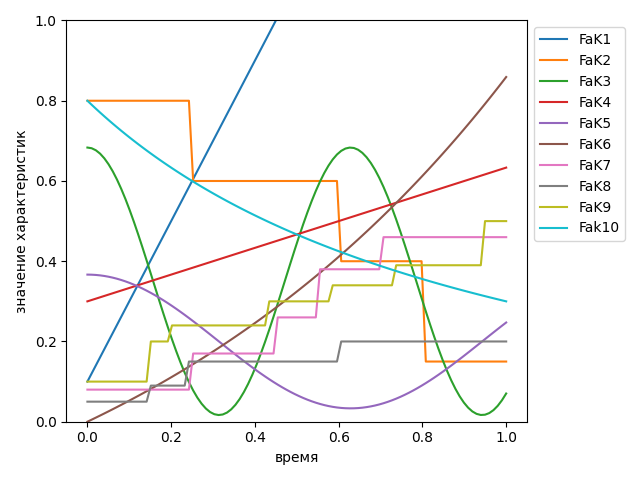
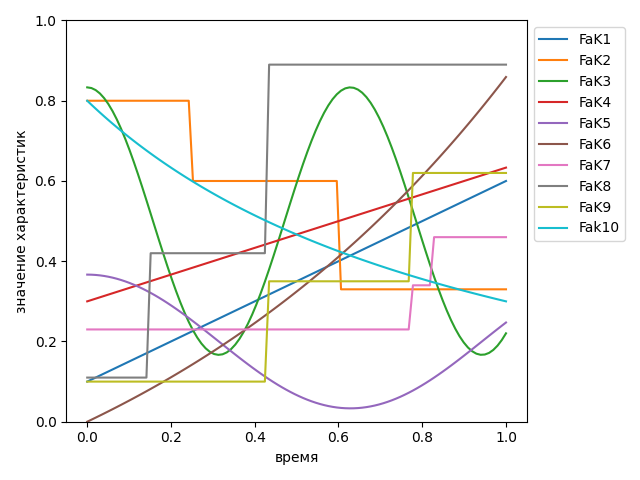
Fuck

diff --git a/service.py b/service.py
@@ -19,6 +19,7 @@ labelMap = {'U1': 'Общее количество ДТП',
             'U14': 'ДТП на платных автомобильных дорогах',
             'U15': 'ДТП на железнодорожных переездах'}
 
+
 class CharacteristicFromExcel:
     def __init__(self, *args, **kwargs):
         if len(kwargs) == 0 or kwargs["excel"] is None:
@@ -46,7 +47,8 @@ class CharacteristicFromExcel:
                                                   char_val[self.char_faks_index:]))
 
         self.func_m = {}
-        self.fak_f = {'FaK1': fak1, 'FaK2': fak2, 'FaK3': fak3, 'FaK4': fak4, 'FaK5': fak5, 'FaK6': fak6, 'FaK7': fak7, 'FaK8': fak8, 'FaK9': fak9, 'FaK10': fak10}
+        self.fak_f = {'FaK1': fak1, 'FaK2': fak2, 'FaK3': fak3, 'FaK4': fak4, 'FaK5': fak5, 'FaK6': fak6, 'FaK7': fak7,
+                      'FaK8': fak8, 'FaK9': fak9, 'FaK10': fak10}
         for i in self.chars:
             for f in (i.b + i.d):
                 name = 'f' + str(len(self.func_m.keys()) + 1)
@@ -85,7 +87,7 @@ class CharacteristicFromExcel:
                 list(map(lambda x: x(t), res_b_fak))) - np.prod(list(map(lambda x: x(t), res_d_f))) * sum(
                 list(map(lambda x: x(t), res_d_fak))))
 
-    def init_par(self, Q1,Q2,Q3,Q4,Q5,Q1k,Q2k,Q3k,Q4k,Q5k):
+    def init_par(self, Q1, Q2, Q3, Q4, Q5, Q1k, Q2k, Q3k, Q4k, Q5k):
         self.func_m['f' + str(Q1)] = lambda t: Q_tempalte(t, Q1k)
         self.func_m['f' + str(Q2)] = lambda t: Q_tempalte(t, Q2k)
         self.func_m['f' + str(Q3)] = lambda t: Q_tempalte(t, Q3k)
@@ -105,7 +107,7 @@ class CharacteristicFromExcel:
         return self.res
 
     def get_graphics(self):
-        fig = plt.figure(figsize=(10, 5)) #todo тут поправить чтобы график на говно не был похож
+        fig = plt.figure(figsize=(10, 5))  # todo тут поправить чтобы график на говно не был похож
 
         # создаём область, в которой будет
         # - отображаться график
@@ -124,7 +126,7 @@ class CharacteristicFromExcel:
         fig.tight_layout()
         fig.savefig('funcs.png')
 
-    def get_diag(self, t,filename):
+    def get_diag(self, t, filename):
         labels = list(self.res.keys())
 
         t_110 = np.linspace(0, 1, 110)
@@ -136,9 +138,7 @@ class CharacteristicFromExcel:
 
         start_stats = [i[0] for i in self.res.values()]
         stats = [i[res_index] for i in self.res.values()]
-        make_radar_chart('T=' + str(t),filename, start_stats, stats, labels)
-
-
+        make_radar_chart('T=' + str(t), filename, start_stats, stats, labels)
 
 
 def make_radar_chart(name, filename, initialStats, stats, attribute_labels):
@@ -169,59 +169,60 @@ def Q_tempalte(t, k):
 
 
 def fak1(t):
-    return 2 * t + 0.1
+    return 0.5 * t + 0.1
 
 
 def fak2(t):
     res = np.where(t >= 0, 0.8, t)
     res = np.where(t > 0.25, 0.6, res)
-    res = np.where(t > 0.6, 0.4, res)
-    res = np.where(t > 0.8, 0.15, res)
+    res = np.where(t > 0.6, 0.33, res)
 
     return res
 
+
 def fak3(t):
-    return np.cos(t * 10) / 3 + 0.35
+    return np.cos(t * 10) / 3 + 0.5
+
 
 def fak4(t):
-    return  t / 3 + 0.3
+    return t / 3 + 0.3
+
 
 def fak5(t):
     return np.cos(t * 5) / 6 + 0.2
 
+
 def fak6(t):
     return np.exp(t) / 2 - 0.5
 
+
 def fak7(t):
-    res = np.where(t >= 0, 0.08, t)
-    res = np.where(t > 0.25, 0.17, res)
-    res = np.where(t > 0.45, 0.26, res)
-    res = np.where(t > 0.55, 0.38, res)
-    res = np.where(t > 0.70, 0.46, res)
+    res = np.where(t >= 0, 0.23, t)
+    res = np.where(t > 0.77, 0.34, res)
+    res = np.where(t > 0.82, 0.46, res)
 
     return res
+
 
 def fak8(t):
-    res = np.where(t >= 0, 0.05, t)
-    res = np.where(t > 0.15, 0.09, res)
-    res = np.where(t > 0.24, 0.15, res)
-    res = np.where(t > 0.60, 0.20, res)
+    res = np.where(t >= 0, 0.11, t)
+    res = np.where(t > 0.15, 0.42, res)
+    res = np.where(t > 0.43, 0.89, res)
 
     return res
+
 
 def fak9(t):
     res = np.where(t >= 0, 0.1, t)
-    res = np.where(t > 0.15, 0.2, res)
-    res = np.where(t > 0.2, 0.24, res)
-    res = np.where(t > 0.43, 0.3, res)
-    res = np.where(t > 0.58, 0.34, res)
-    res = np.where(t > 0.73, 0.39, res)
-    res = np.where(t > 0.94, 0.5, res)
+    res = np.where(t > 0.43, 0.35, res)
+    res = np.where(t > 0.77, 0.62, res)
 
     return res
 
+
 def fak10(t):
     return 1 / (t + 1) - 0.2
+
 
 excel_file_path = 'tableKush.xlsx'
 
@@ -255,6 +256,6 @@ def get_faks_image():
 
     plt.ylim([0, 1])
     plt.legend(['FaK1', 'FaK2', 'FaK3', 'FaK4', 'FaK5', 'FaK6', 'FaK7', 'FaK8', 'FaK9', 'Fak10'], bbox_to_anchor=(1, 1))
-    
+
     fig[0].tight_layout()
     fig[0].savefig('fak.png')
